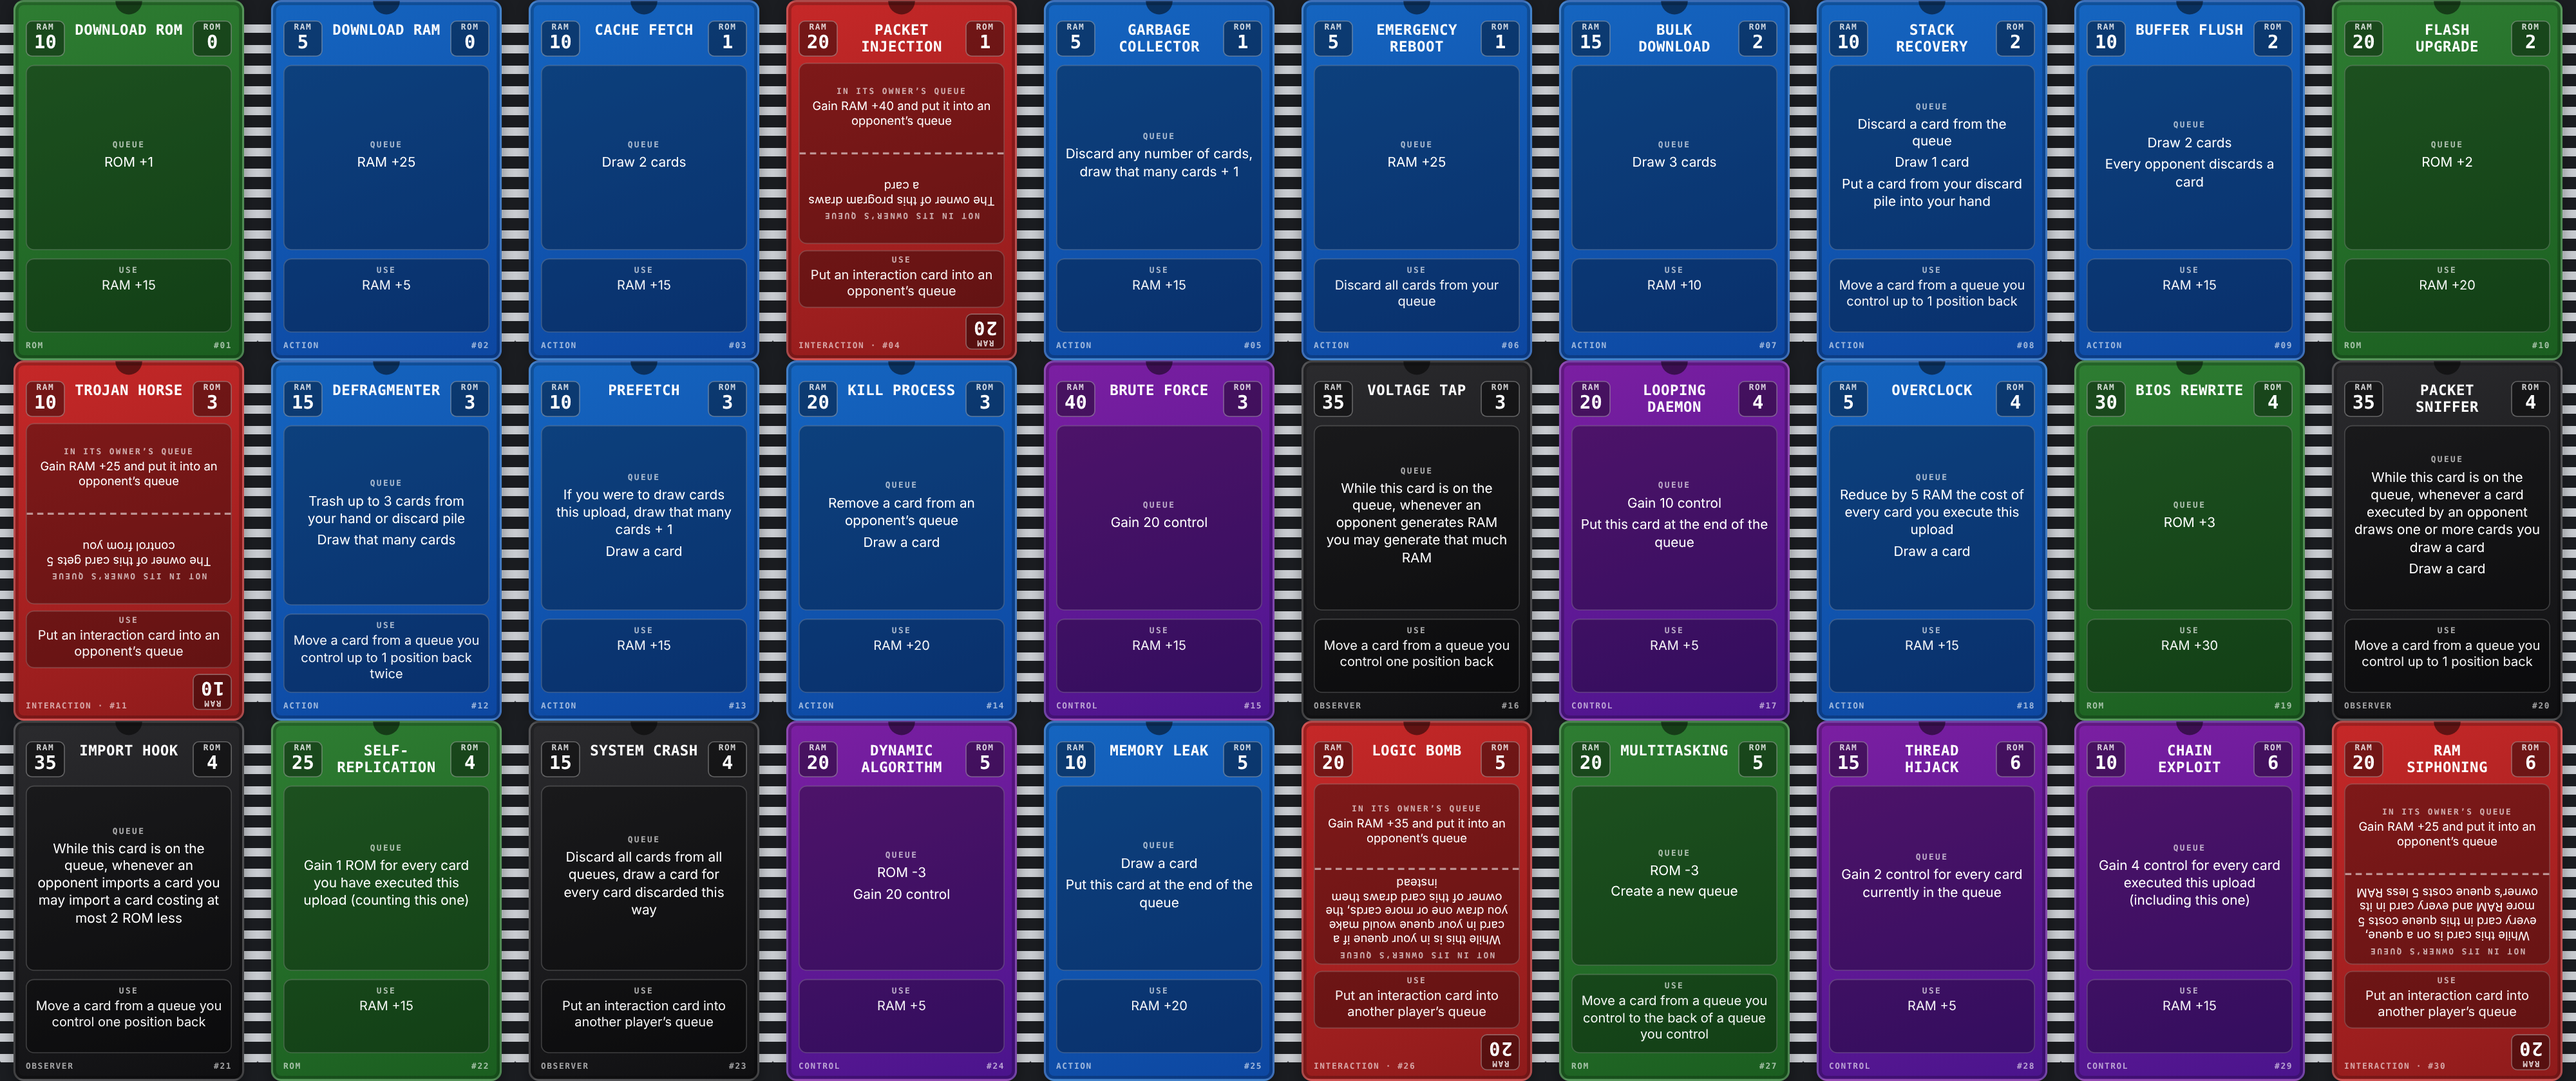
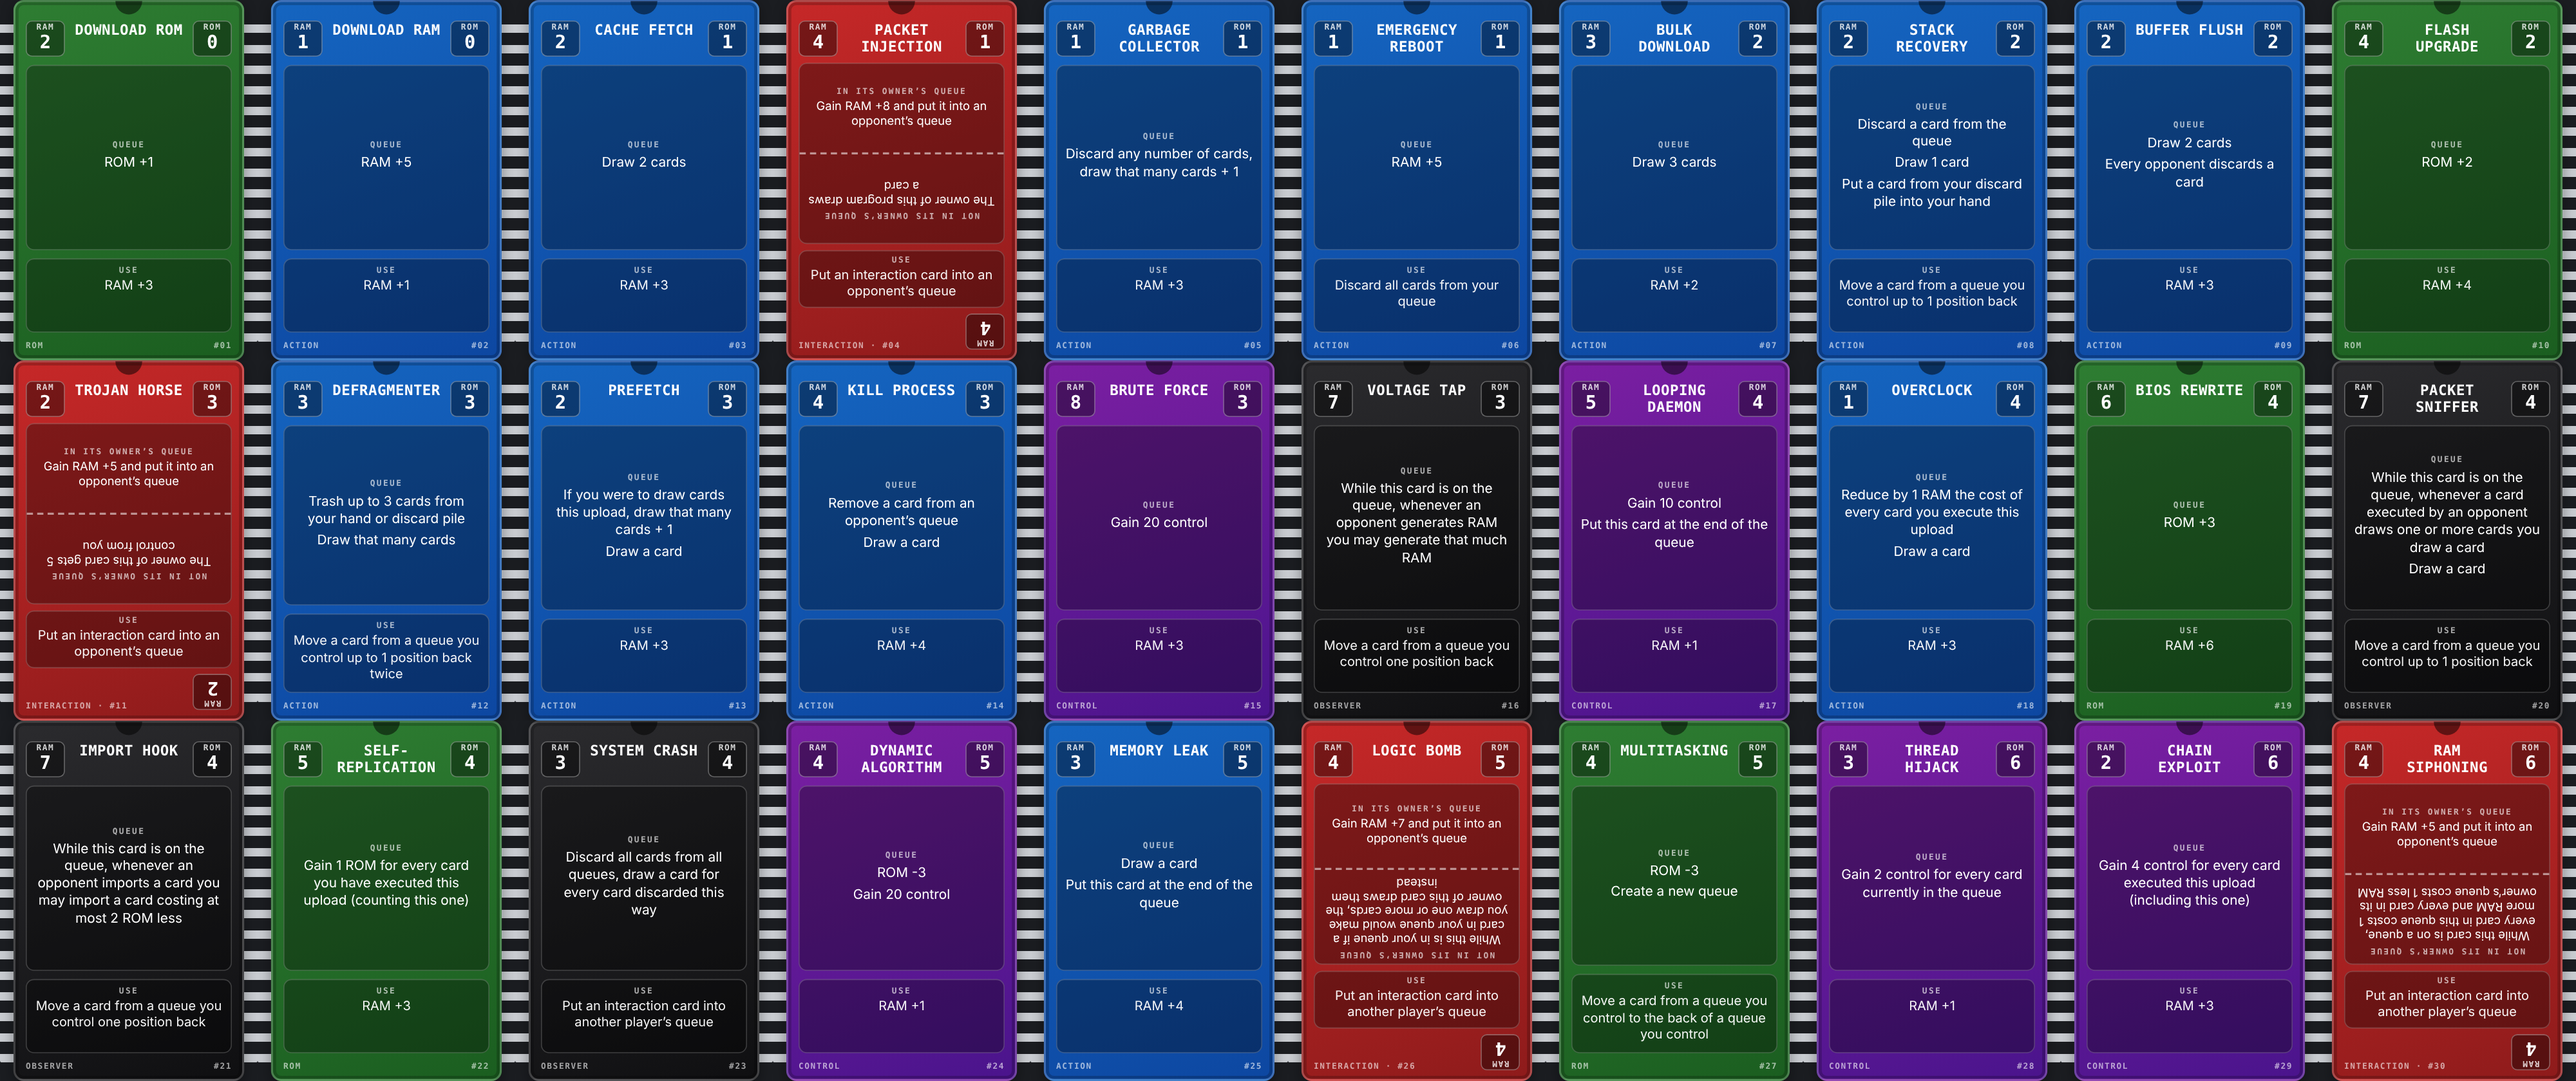
fixes

diff --git a/content/posts/curiosities/posts/ControlTheQueue/index.md b/content/posts/curiosities/posts/ControlTheQueue/index.md
@@ -65,36 +65,36 @@ I include below a comprehensive list of all the cards in the game:
 
 | ID | Name | RAM | ROM | Type | Queue | Use |
 |---:|------|----:|----:|------|-------|-----|
-| 1 | Download ROM | 10 | 0 | ROM | ROM +1 | RAM +15 |
-| 2 | Download RAM | 5 | 0 | Action | RAM +25 | RAM +5 |
-| 3 | Cache Fetch | 10 | 1 | Action | Draw 2 cards | RAM +15 |
-| 4 | Packet Injection | 20 | 1 | Interaction | **In its owner's queue:** Gain RAM +40 and put it into an opponent’s queue<br>**Not in its owner's queue:** The owner of this program draws a card | Put an interaction card into an opponent’s queue |
-| 5 | Garbage Collector | 5 | 1 | Action | Discard any number of cards, draw that many cards + 1 | RAM +15 |
-| 6 | Emergency reboot | 5 | 1 | Action | RAM +25 | Discard all cards from your queue |
-| 7 | Bulk Download | 15 | 2 | Action | Draw 3 cards | RAM +10 |
-| 8 | Stack Recovery | 10 | 2 | Action | Discard a card from the queue<br>Draw 1 card<br>Put a card from your discard pile into your hand | Move a card from a queue you control up to 1 position back |
-| 9 | Buffer Flush | 10 | 2 | Action | Draw 2 cards<br>Every opponent discards a card | RAM +15 |
-| 10 | Flash Upgrade | 20 | 2 | ROM | ROM +2 | RAM +20 |
-| 11 | Trojan Horse | 10 | 3 | Interaction | **In its owner's queue:** Gain RAM +25 and put it into an opponent’s queue<br>**Not in its owner's queue:** The owner of this card gets 5 control from you | Put an interaction card into an opponent’s queue |
-| 12 | Defragmenter | 15 | 3 | Action | Trash up to 3 cards from your hand or discard pile<br>Draw that many cards | Move a card from a queue you control up to 1 position back twice |
-| 13 | Prefetch | 10 | 3 | Action | If you were to draw cards this upload, draw that many cards + 1<br>Draw a card | RAM +15 |
-| 14 | Kill Process | 20 | 3 | Action | Remove a card from an opponent’s queue<br>Draw a card | RAM +20 |
-| 15 | Brute force | 40 | 3 | Control | Gain 20 control | RAM +15 |
-| 16 | Voltage Tap | 35 | 3 | Observer | While this card is on the queue, whenever an opponent generates RAM you may generate that much RAM | Move a card from a queue you control one position back |
-| 17 | Looping Daemon | 20 | 4 | Control | Gain 10 control<br>Put this card at the end of the queue | RAM +5 |
-| 18 | Overclock | 5 | 4 | Action | Reduce by 5 RAM the cost of every card you execute this upload<br>Draw a card | RAM +15 |
-| 19 | BIOS Rewrite | 30 | 4 | ROM | ROM +3 | RAM +30 |
-| 20 | Packet Sniffer | 35 | 4 | Observer | While this card is on the queue, whenever a card executed by an opponent draws one or more cards you draw a card<br>Draw a card | Move a card from a queue you control up to 1 position back |
-| 21 | Import Hook | 35 | 4 | Observer | While this card is on the queue, whenever an opponent imports a card you may import a card costing at most 2 ROM less | Move a card from a queue you control one position back |
-| 22 | Self-replication | 25 | 4 | ROM | Gain 1 ROM for every card you have executed this upload (counting this one) | RAM +15 |
-| 23 | System Crash | 15 | 4 | Observer | Discard all cards from all queues, draw a card for every card discarded this way | Put an interaction card into another player’s queue |
-| 24 | Dynamic algorithm | 20 | 5 | Control | ROM -3<br>Gain 20 control | RAM +5 |
-| 25 | Memory Leak | 10 | 5 | Action | Draw a card<br>Put this card at the end of the queue | RAM +20 |
-| 26 | Logic Bomb | 20 | 5 | Interaction | **In its owner's queue:** Gain RAM +35 and put it into an opponent’s queue<br>**Not in its owner's queue:** While this is in your queue if a card in your queue would make you draw one or more cards, the owner of this card draws them instead | Put an interaction card into another player’s queue |
-| 27 | Multitasking | 20 | 5 | ROM | ROM -3<br>Create a new queue | Move a card from a queue you control to the back of a queue you control |
-| 28 | Thread Hijack | 15 | 6 | Control | Gain 2 control for every card currently in the queue | RAM +5 |
-| 29 | Chain Exploit | 10 | 6 | Control | Gain 4 control for every card executed this upload (including this one) | RAM +15 |
-| 30 | RAM siphoning | 20 | 6 | Interaction | **In its owner's queue:** Gain RAM +25 and put it into an opponent’s queue<br>**Not in its owner's queue:** While this card is on a queue, every card in this queue costs 5 more RAM and every card in its owner’s queue costs 5 less RAM | Put an interaction card into another player’s queue |
+| 1 | Download ROM | 2 | 0 | ROM | ROM +1 | RAM +3 |
+| 2 | Download RAM | 1 | 0 | Action | RAM +5 | RAM +1 |
+| 3 | Cache Fetch | 2 | 1 | Action | Draw 2 cards | RAM +3 |
+| 4 | Packet Injection | 4 | 1 | Interaction | **In its owner's queue:** Gain RAM +8 and put it into an opponent’s queue<br>**Not in its owner's queue:** The owner of this program draws a card | Put an interaction card into an opponent’s queue |
+| 5 | Garbage Collector | 1 | 1 | Action | Discard any number of cards, draw that many cards + 1 | RAM +3 |
+| 6 | Emergency reboot | 1 | 1 | Action | RAM +5 | Discard all cards from your queue |
+| 7 | Bulk Download | 3 | 2 | Action | Draw 3 cards | RAM +2 |
+| 8 | Stack Recovery | 2 | 2 | Action | Discard a card from the queue<br>Draw 1 card<br>Put a card from your discard pile into your hand | Move a card from a queue you control up to 1 position back |
+| 9 | Buffer Flush | 2 | 2 | Action | Draw 2 cards<br>Every opponent discards a card | RAM +3 |
+| 10 | Flash Upgrade | 4 | 2 | ROM | ROM +2 | RAM +4 |
+| 11 | Trojan Horse | 2 | 3 | Interaction | **In its owner's queue:** Gain RAM +5 and put it into an opponent’s queue<br>**Not in its owner's queue:** The owner of this card gets 5 control from you | Put an interaction card into an opponent’s queue |
+| 12 | Defragmenter | 3 | 3 | Action | Trash up to 3 cards from your hand or discard pile<br>Draw that many cards | Move a card from a queue you control up to 1 position back twice |
+| 13 | Prefetch | 2 | 3 | Action | If you were to draw cards this upload, draw that many cards + 1<br>Draw a card | RAM +3 |
+| 14 | Kill Process | 4 | 3 | Action | Remove a card from an opponent’s queue<br>Draw a card | RAM +4 |
+| 15 | Brute force | 8 | 3 | Control | Gain 20 control | RAM +3 |
+| 16 | Voltage Tap | 7 | 3 | Observer | While this card is on the queue, whenever an opponent generates RAM you may generate that much RAM | Move a card from a queue you control one position back |
+| 17 | Looping Daemon | 5 | 4 | Control | Gain 10 control<br>Put this card at the end of the queue | RAM +1 |
+| 18 | Overclock | 1 | 4 | Action | Reduce by 1 RAM the cost of every card you execute this upload<br>Draw a card | RAM +3 |
+| 19 | BIOS Rewrite | 6 | 4 | ROM | ROM +3 | RAM +6 |
+| 20 | Packet Sniffer | 7 | 4 | Observer | While this card is on the queue, whenever a card executed by an opponent draws one or more cards you draw a card<br>Draw a card | Move a card from a queue you control up to 1 position back |
+| 21 | Import Hook | 7 | 4 | Observer | While this card is on the queue, whenever an opponent imports a card you may import a card costing at most 2 ROM less | Move a card from a queue you control one position back |
+| 22 | Self-replication | 5 | 4 | ROM | Gain 1 ROM for every card you have executed this upload (counting this one) | RAM +3 |
+| 23 | System Crash | 3 | 4 | Observer | Discard all cards from all queues, draw a card for every card discarded this way | Put an interaction card into another player’s queue |
+| 24 | Dynamic algorithm | 4 | 5 | Control | ROM -3<br>Gain 20 control | RAM +1 |
+| 25 | Memory Leak | 3 | 5 | Action | Draw a card<br>Put this card at the end of the queue | RAM +4 |
+| 26 | Logic Bomb | 4 | 5 | Interaction | **In its owner's queue:** Gain RAM +7 and put it into an opponent’s queue<br>**Not in its owner's queue:** While this is in your queue if a card in your queue would make you draw one or more cards, the owner of this card draws them instead | Put an interaction card into another player’s queue |
+| 27 | Multitasking | 4 | 5 | ROM | ROM -3<br>Create a new queue | Move a card from a queue you control to the back of a queue you control |
+| 28 | Thread Hijack | 3 | 6 | Control | Gain 2 control for every card currently in the queue | RAM +1 |
+| 29 | Chain Exploit | 2 | 6 | Control | Gain 4 control for every card executed this upload (including this one) | RAM +3 |
+| 30 | RAM siphoning | 4 | 6 | Interaction | **In its owner's queue:** Gain RAM +5 and put it into an opponent’s queue<br>**Not in its owner's queue:** While this card is on a queue, every card in this queue costs 1 more RAM and every card in its owner’s queue costs 1 less RAM | Put an interaction card into another player’s queue |
 
 The basic ROM cards are the following:
 - **DOWNLOAD ROM**
@@ -109,7 +109,8 @@ Now that we know what a card looks like is time for us to see what is this queue
 
 Every player has (at least) one queue that starts empty, when a player wants to execute a card they must put it in the back of one of their queues. The queue is a first-in-first-out structure, meaning that the first card in the queue is the first one to be executed. In other words, to execute the card in the back of the queue, a player must first execute all the cards in front of it.
 
-How do you execute a card? By discarding any number of cards in your hand you usually generate RAM you can use to execute all cards you can fully pay for in the queue in order, until you reach a card that you cannot pay for or the queue becomes empty. When this happens all remaining RAM will be lost and all executed cards will go to the discard pile. When a card is executed, its "Queue" effect is resolved. 
+How do you execute a card? By discarding any number of cards in your hand you usually generate RAM you can use to execute all cards you can fully pay for in the queue in order, until you reach a card that you cannot pay for or the queue becomes empty. When this happens all remaining RAM will be lost and all executed cards will go to the discard pile. When a card is executed, its "Queue" effect is resolved in order from top to bottom, if an action in the card can not be resolved, any actions below it will not be resolved either. For example, the card "DYNAMIC ALGORITHM" has a "Queue" effect that gives you 20 control, but it also has a "ROM -3" effect. If you do not have enough ROM to pay for the "ROM -3" effect, you will not gain the 20 control.
+
 The process of, given some RAM, executing cards in the queue until it is no longer possible is called an "upload".
 
 ### Player Turns
@@ -133,6 +134,23 @@ She decides to end her turn (as she does't have any more cards to discard or put
 ## Ending the game
 
 The game ends the moment the total control of all players has reached 100, if the last player had generated enough control to put the total control beyond 100 the surplus control is lost. The player with the highest control wins the game, if there is a tie, the total ROM value of the cards in the players' decks is used as a tiebreaker.
+
+## Two player variant
+
+The game is designed and balanced for 4 players, for that reason when only 2 players are playing, the RAM cost of interaction cards is doubled and the queue effect of observer cards is enhanced.
+
+More precisely, this are the information for interaction and observer cards in a 2 player game:
+
+| ID | Name | RAM | ROM | Type | Queue | Use |
+|---:|------|----:|----:|------|-------|-----|
+| 4 | Packet Injection | 8 | 1 | Interaction | **In its owner's queue:** Gain RAM +8 and put it into an opponent’s queue<br>**Not in its owner's queue:** The owner of this program draws a card | Put an interaction card into an opponent’s queue |
+| 11 | Trojan Horse | 4 | 3 | Interaction | **In its owner's queue:** Gain RAM +5 and put it into an opponent’s queue<br>**Not in its owner's queue:** The owner of this card gets 5 control from you | Put an interaction card into an opponent’s queue |
+| 26 | Logic Bomb | 8 | 5 | Interaction | **In its owner's queue:** Gain RAM +7 and put it into an opponent’s queue<br>**Not in its owner's queue:** While this is in your queue if a card in your queue would make you draw one or more cards, the owner of this card draws them instead | Put an interaction card into another player’s queue |
+| 30 | RAM siphoning | 8 | 6 | Interaction | **In its owner's queue:** Gain RAM +5 and put it into an opponent’s queue<br>**Not in its owner's queue:** While this card is on a queue, every card in this queue costs 1 more RAM and every card in its owner’s queue costs 1 less RAM | Put an interaction card into another player’s queue |
+| 16 | Voltage Tap | 7 | 3 | Observer | While this card is on the queue, whenever an opponent generates RAM you may generate twice that much RAM | Move a card from a queue you control one position back |
+| 20 | Packet Sniffer | 7 | 4 | Observer | While this card is on the queue, whenever a card executed by an opponent draws one or more cards you draw 2 cards<br>Draw a card | Move a card from a queue you control up to 1 position back |
+| 21 | Import Hook | 7 | 4 | Observer | While this card is on the queue, whenever an opponent imports a card you may import a card costing at most the same ROM | Move a card from a queue you control one position back |
+| 23 | System Crash | 3 | 4 | Observer | Discard all cards from all queues, draw 2 cards for every card discarded this way | Put an interaction card into another player’s queue |
 
 
 
